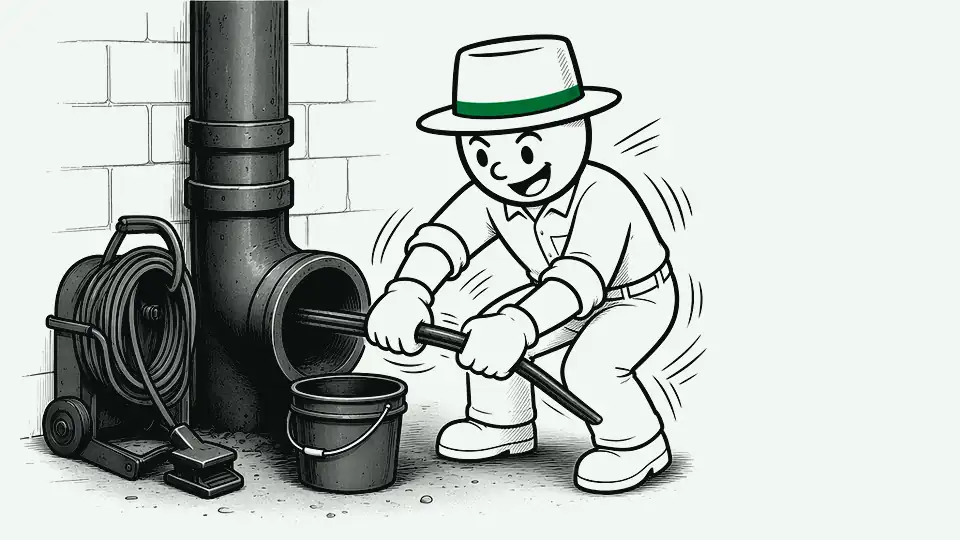
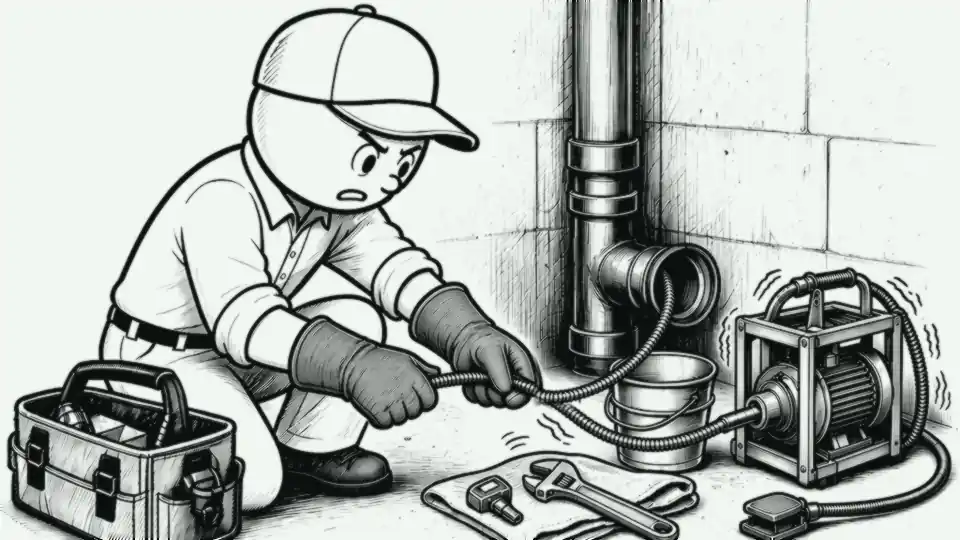
Scenes v7: mainline as 6 locked-camera keyframes (gauntlet gloves, sectional machine at the stack cleanout, taped plug snugged with a wrench)

diff --git a/scenes/mainline.js b/scenes/mainline.js
@@ -1,1 +1,1 @@
-(window.EESceneData=window.EESceneData||{})["mainline"]={"kind":"kf","w":960,"h":540,"title":"Main line cleared","alt":"At the floor cleanout he feeds the sectional machine's cable with the foot pedal, breaks through the blockage, recaps the cleanout with fresh thread dope, and tips his hat.","frames":[{"src":"scenes/kf/mainline-1.webp?v=6","hold":560,"tw":{"x":-4}},{"src":"scenes/kf/mainline-2.webp?v=6","hold":560,"tw":{"y":-6},"o":[{"x":525,"y":188,"t":"effort","a":-40}]},{"src":"scenes/kf/mainline-3.webp?v=6","hold":560,"tw":{"x":5,"ms":240},"o":[{"x":656,"y":75,"t":"word","text":"WHOOSH!","s":43},{"x":600,"y":159,"t":"effort","a":-30}]},{"src":"scenes/kf/mainline-4.webp?v=6","hold":560,"tw":{"sy":0.99,"ms":200}},{"src":"scenes/kf/mainline-5.webp?v=6","hold":760,"tw":{"y":8,"r":-1,"ms":300},"o":[{"x":850,"y":100,"t":"check"}]}],"placeholder":false};
+(window.EESceneData=window.EESceneData||{})["mainline"]={"kind":"kf","w":960,"h":540,"title":"Main line cleared","alt":"Heavy leather gauntlet gloves on beside the open stack cleanout, he guides the sectional machine's cable into the cleanout, the machine runs until the cable breaks through, the cable comes back onto the machine, he tapes the cleanout plug's threads, snugs the plug with an adjustable wrench, and tips his cap.","frames":[{"src":"scenes/kf/mainline-1.webp?v=7","hold":480,"tw":{"x":-3}},{"src":"scenes/kf/mainline-2.webp?v=7","hold":480,"tw":{"y":-4},"o":[{"x":488,"y":309,"t":"effort","a":-40}]},{"src":"scenes/kf/mainline-3.webp?v=7","hold":520,"tw":{"x":4,"ms":240},"o":[{"x":525,"y":66,"t":"word","text":"WHOOSH!","s":45},{"x":769,"y":244,"t":"effort","a":-30}]},{"src":"scenes/kf/mainline-4.webp?v=7","hold":460,"tw":{"sy":0.99,"ms":200}},{"src":"scenes/kf/mainline-5.webp?v=7","hold":480,"tw":{"y":-4},"o":[{"x":525,"y":216,"t":"effort","a":-40}]},{"src":"scenes/kf/mainline-6.webp?v=7","hold":1000,"tw":{"y":6,"r":-0.8,"ms":300},"o":[{"x":110,"y":100,"t":"check"}]}],"placeholder":false};
